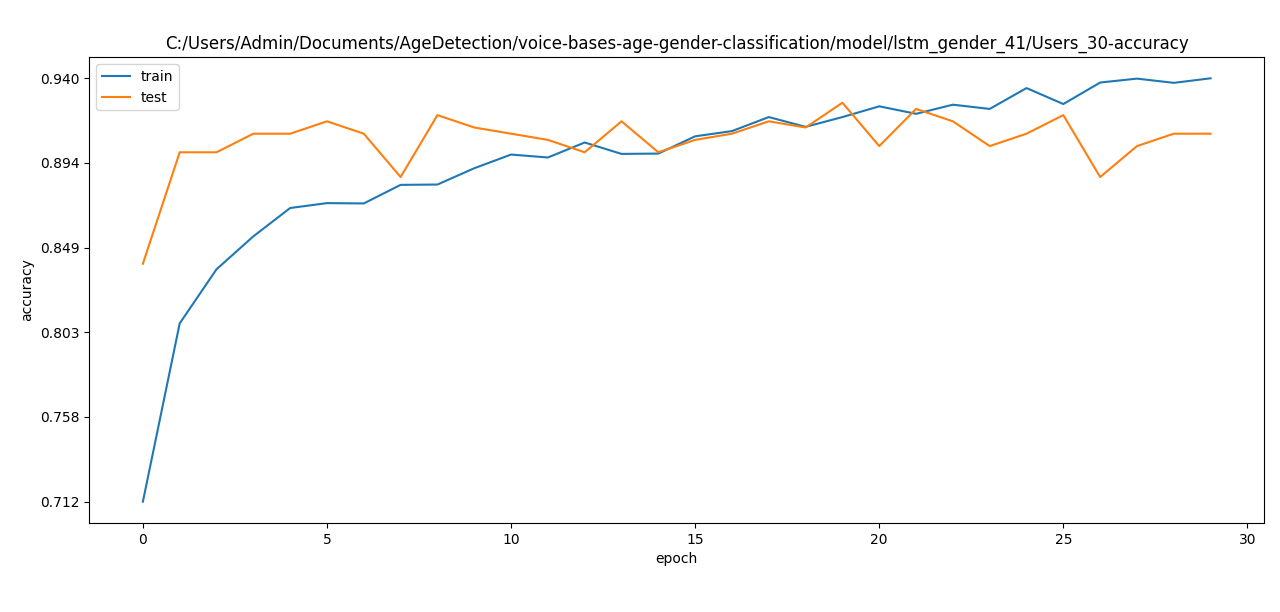
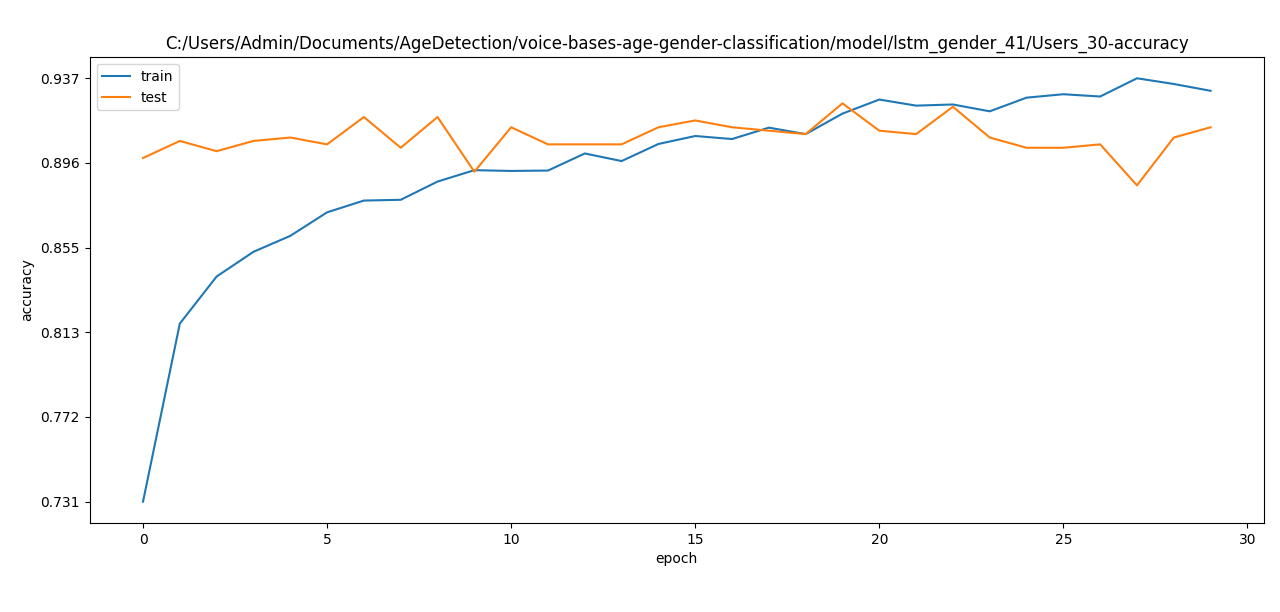
Add files via upload

diff --git a/voice-bases -age-gender-recognition/data_plots.py b/voice-bases -age-gender-recognition/data_plots.py
@@ -183,26 +183,26 @@ if __name__ == '__main__':
     # the process of transforming audio before it gets converted to mfcc
 
     # Dataset plot
-    # dataset_plot("C:/Users/Admin/Documents/AgeDetection/voice-bases-age-gender-classification/gender_data_clean/gender_out")
-    dataset_plot("C:/Users/Admin/Documents/AgeDetection/voice-bases-age-gender-classification/age_data_clean/age_out")
+    dataset_plot("C:/Users/Admin/Documents/AgeDetection/voice-bases-age-gender-classification/gender_data_clean_2/gender_out")
+    dataset_plot("C:/Users/Admin/Documents/AgeDetection/voice-bases-age-gender-classification/age_data_clean_2/age_out")
     
     # Audio features plot
-    # data_path = "C:/Users/Admin/Documents/AgeDetection/voice-bases-age-gender-classification/DataSet/vi/clips/"
+    data_path = "C:/Users/Admin/Documents/AgeDetection/voice-bases-age-gender-classification/audio/"
 
-    # file = os.listdir(data_path)[0]
-    # file = Path(data_path + file)
-    # duration = librosa.core.get_duration(filename=str(file))
+    file = os.listdir(data_path)[0]
+    file = Path(data_path + file)
+    duration = librosa.core.get_duration(filename=str(file))
 
-    # audio_transform_plot(file)
-    # mfcc_features_plot(file)
-    # audio_data, pitch_values, magnitude_values = get_pitch_magnitude(file, SAMPLE_RATE)
-    # plot_figures(pitch_values, magnitude_values)
-    # other_feature_plot(file)
+    audio_transform_plot(file)
+    mfcc_features_plot(file)
+    audio_data, pitch_values, magnitude_values = get_pitch_magnitude(file, SAMPLE_RATE)
+    plot_figures(pitch_values, magnitude_values)
+    other_feature_plot(file)
 
     # Model Performance plot
     # model_performance_plot("C:/Users/Admin/Documents/AgeDetection/voice-bases-age-gender-classification/model/lstm_gender_41", 30, ['accuracy'])
     # model_performance_plot("C:/Users/Admin/Documents/AgeDetection/voice-bases-age-gender-classification/model/lstm_gender_41", 30, ['loss'])
     
-    # model_performance_plot("C:/Users/Admin/Documents/AgeDetection/voice-bases-age-gender-classification/model/lstm_age_41", 30, ['accuracy'])
-    # model_performance_plot("C:/Users/Admin/Documents/AgeDetection/voice-bases-age-gender-classification/model/lstm_age_41", 30, ['loss'])
+    # model_performance_plot("C:/Users/Admin/Documents/AgeDetection/voice-bases-age-gender-classification/model/lstm_age_41", 100, ['accuracy'])
+    # model_performance_plot("C:/Users/Admin/Documents/AgeDetection/voice-bases-age-gender-classification/model/lstm_age_41", 100, ['loss'])
     

diff --git a/voice-bases -age-gender-recognition/datasets.py b/voice-bases -age-gender-recognition/datasets.py
@@ -7,8 +7,6 @@ from utils import get_count, min_label_count
 
 folder_path = "C:/Users/admin/Documents/AgeDetection/voice-bases-age-gender-classification/DataSet/"
 english_dataset_path = "ja/"
-# french_dataset_path = "vi/"
-# german_dataset_path = "german_dataset/"
 audio_path = "clips/"
 
 train_type = {"gender", "age", "language"}
@@ -129,7 +127,7 @@ def clean_gender_dataset(inputs, outputs) -> (np.array, np.array):
     return np.array(cleaned_in), np.array(cleaned_out)
 
 
-def create_gender_dataset(out_data_path, min_samples=100):
+def create_gender_dataset(out_data_path, min_samples=1000):
     """
     create the files holding the data for the gender prediction model
     :param out_data_path: where to save the files
@@ -172,7 +170,7 @@ def clean_age_dataset(inputs, outputs) -> (np.array, np.array):
     return np.array(cleaned_in), np.array(cleaned_out)
 
 
-def create_age_dataset(out_data_path, min_samples=100):
+def create_age_dataset(out_data_path, min_samples=0):
     if out_data_path[-1] != '/':
         out_data_path = out_data_path + '/'
     if min_samples <= 0:

diff --git a/voice-bases -age-gender-recognition/main.py b/voice-bases -age-gender-recognition/main.py
@@ -15,12 +15,12 @@ gender_labels = {
 }
 
 age_labels = {
-    # 0: "fifties",
-    0: "fourties",
-    1: "sixties",
+    0: "fifties_sixties",
+    1: "fourties",
     2: "teens",
     3: "thirties",
     4: "twenties"
+    
 }
 
 
@@ -40,7 +40,7 @@ def get_age(out_data):
 def main_program():
 
     gender_weights, gender_means, gender_stddev = get_data_files(models_path, "gender", 30)
-    age_weights, age_means, age_stddev = get_data_files(models_path, "age", 30)
+    age_weights, age_means, age_stddev = get_data_files(models_path, "age", 100)
     np.set_printoptions(precision=3)
 
     num_gender_labels = len(gender_labels)
@@ -65,7 +65,7 @@ def main_program():
         data = np.array([data.T])
 
         data = norm_multiple(data, mean_paths, stddev_paths)
-
+    
         gender_predict = gender_model.predict(data[0])
         print(gender_predict)
         age_predict = age_model.predict(data[1])

diff --git a/voice-bases -age-gender-recognition/models.py b/voice-bases -age-gender-recognition/models.py
@@ -12,7 +12,7 @@ def train_deepnn(model_file, inputs, outputs, model, num_epochs):
     if len(outputs)>len(inputs):
         outputs = outputs[:len(inputs)]
         
-    x_train, x_valid, y_train, y_valid = train_test_split(inputs, outputs, test_size=0.05, random_state=36)
+    x_train, x_valid, y_train, y_valid = train_test_split(inputs, outputs, test_size=0.1, random_state=36)
 
     means, std_dev = get_mean_stddev(x_train)
 
@@ -27,7 +27,7 @@ def train_deepnn(model_file, inputs, outputs, model, num_epochs):
 
     y_train = labels_to_categorical(y_train)
     y_valid = labels_to_categorical(y_valid)
-
+   
     for epoch in range(num_epochs):
         history_train = model.fit(x_train, y_train, batch_size=BATCH_SIZE, epochs=1, verbose=0)
         history_valid = model.evaluate(x_valid, y_valid, verbose=0, batch_size=BATCH_SIZE)

diff --git a/voice-bases -age-gender-recognition/gender_model.py b/voice-bases -age-gender-recognition/gender_model.py
@@ -1,13 +1,11 @@
-
-import keras_metrics as km
-from keras import metrics
+import tensorflow as tf
 
 from keras import Sequential
 from keras.layers import LSTM, Dense, Dropout, BatchNormalization
 
 from models import train_multi_epoch, train_deepnn
 
-NUM_FEATURES = 41  # 20, 41, 39
+NUM_FEATURES = 41 
 
 
 def lstm_gender_model(num_labels):
